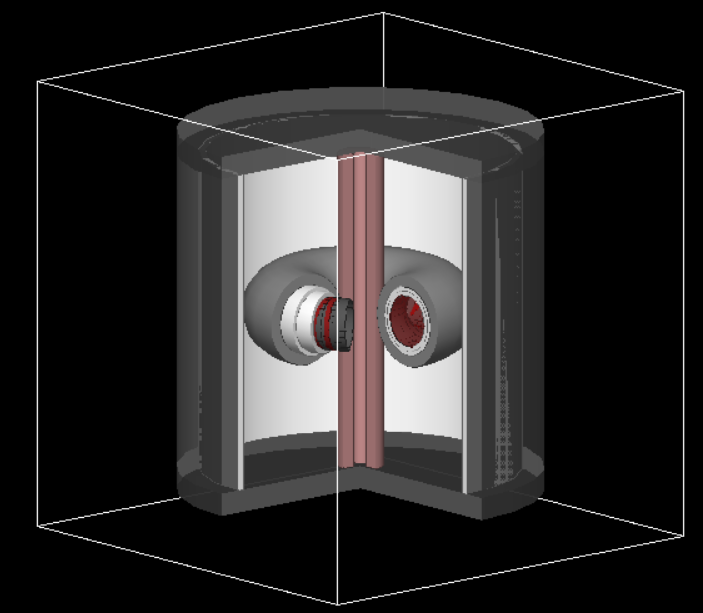
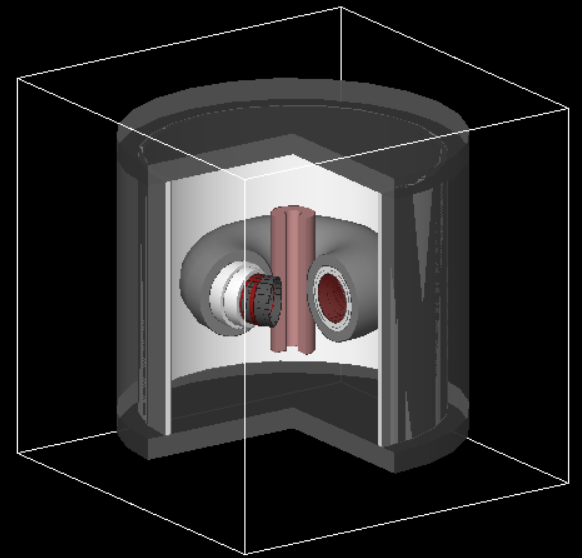
Geometrical model COMPLETE

diff --git a/src/Construction.cc b/src/Construction.cc
@@ -84,9 +84,9 @@ G4VPhysicalVolume* MyDetectorConstruction::Construct()
 {
     
     // Dimensions of the world mother volume
-    G4double xWorld = 20.0*m;
-    G4double yWorld = 20.0*m;
-    G4double zWorld = 20.0*m;
+    G4double xWorld = 18.0*m;
+    G4double yWorld = 18.0*m;
+    G4double zWorld = 18.0*m;
     
     G4double alpha = 270; // Revolution Angle
     
@@ -109,8 +109,8 @@ G4VPhysicalVolume* MyDetectorConstruction::Construct()
     rot->rotateX(90*deg);
     G4VPhysicalVolume* physPlasma = new G4PVPlacement(rot, G4ThreeVector(0., 0., 0.), logicPlasma, "physPlasma", logicWorld, false, 0, true);
     
-    // Central Solenoid
-    G4Tubs* CS = new G4Tubs("CS1", 80*cm, 200*cm, 1400*cm, 0*deg, alpha*deg);
+    // Central Solenoid, 13m high (650 cm half z)
+    G4Tubs* CS = new G4Tubs("CS1", 80*cm, 200*cm, 650*cm, 0*deg, alpha*deg);
     G4LogicalVolume* logicCS = new G4LogicalVolume(CS, CS_mat, "logicCS");
     G4VPhysicalVolume* physCS = new G4PVPlacement(rot, G4ThreeVector(0,0,0), logicCS, "physCS", logicWorld, false, 0, true);
     
@@ -144,14 +144,14 @@ G4VPhysicalVolume* MyDetectorConstruction::Construct()
     // G4Tubs* TFCi = new G4Tubs("TFCi", 307.1*cm, 407.1*cm, );
     
     // Cryostat
-    G4Tubs* Cryostat = new G4Tubs("Cryostat", 1358.2*cm, 1413.2*cm, 1413*cm, 0*deg, alpha*deg);
+    G4Tubs* Cryostat = new G4Tubs("Cryostat", 1358.2*cm, 1413.2*cm, 1213*cm, 0*deg, alpha*deg);
     
     G4LogicalVolume* logicCryostat = new G4LogicalVolume(Cryostat, SS316, "logicCryostat");
     
     G4VPhysicalVolume* physCryostat = new G4PVPlacement(rot, G4ThreeVector(0,0,0), logicCryostat, "physCryostat", logicWorld, false, 0, true);
     
     // Biological shield (concrete) lateral
-    G4Tubs* Bioshield = new G4Tubs("Bioshield", 1413.2*cm, 1613*cm, 1413*cm, 0*deg, alpha*deg);
+    G4Tubs* Bioshield = new G4Tubs("Bioshield", 1413.2*cm, 1613*cm, 1213*cm, 0*deg, alpha*deg);
     
     // G4Sphere* Bioshield = new G4Sphere("Bioshield", 1413.2*cm, 1613*cm, 0*deg, alpha*deg, 0*deg, 180*deg);
     G4LogicalVolume* logicBioshield = new G4LogicalVolume(Bioshield, Concrete, "logicBioshield");
@@ -163,14 +163,14 @@ G4VPhysicalVolume* MyDetectorConstruction::Construct()
     
     G4LogicalVolume* logicBioshield_up = new G4LogicalVolume(Bioshield_up, Concrete, "logicBioshield_up");
     
-    G4VPhysicalVolume* physBioshield_up = new G4PVPlacement(rot, G4ThreeVector(0,1513*cm, 0), logicBioshield_up, "physBioshield_up", logicWorld, false, 0, true);
+    G4VPhysicalVolume* physBioshield_up = new G4PVPlacement(rot, G4ThreeVector(0,1313*cm, 0), logicBioshield_up, "physBioshield_up", logicWorld, false, 0, true);
     
     // Bioshield down
     G4Tubs* Bioshield_down = new G4Tubs("Bioshield_down", 0*cm, 1613*cm, 100*cm, 0*deg, alpha*deg);
     
     G4LogicalVolume* logicBioshield_down = new G4LogicalVolume(Bioshield_down, Concrete, "logicBioshield_down");
     
-    G4VPhysicalVolume* physBioshield_down = new G4PVPlacement(rot, G4ThreeVector(0,-1513*cm, 0), logicBioshield_down, "physBioshield_down", logicWorld, false, 0, true);
+    G4VPhysicalVolume* physBioshield_down = new G4PVPlacement(rot, G4ThreeVector(0,-1313*cm, 0), logicBioshield_down, "physBioshield_down", logicWorld, false, 0, true);
     
     return physWorld;
 }
